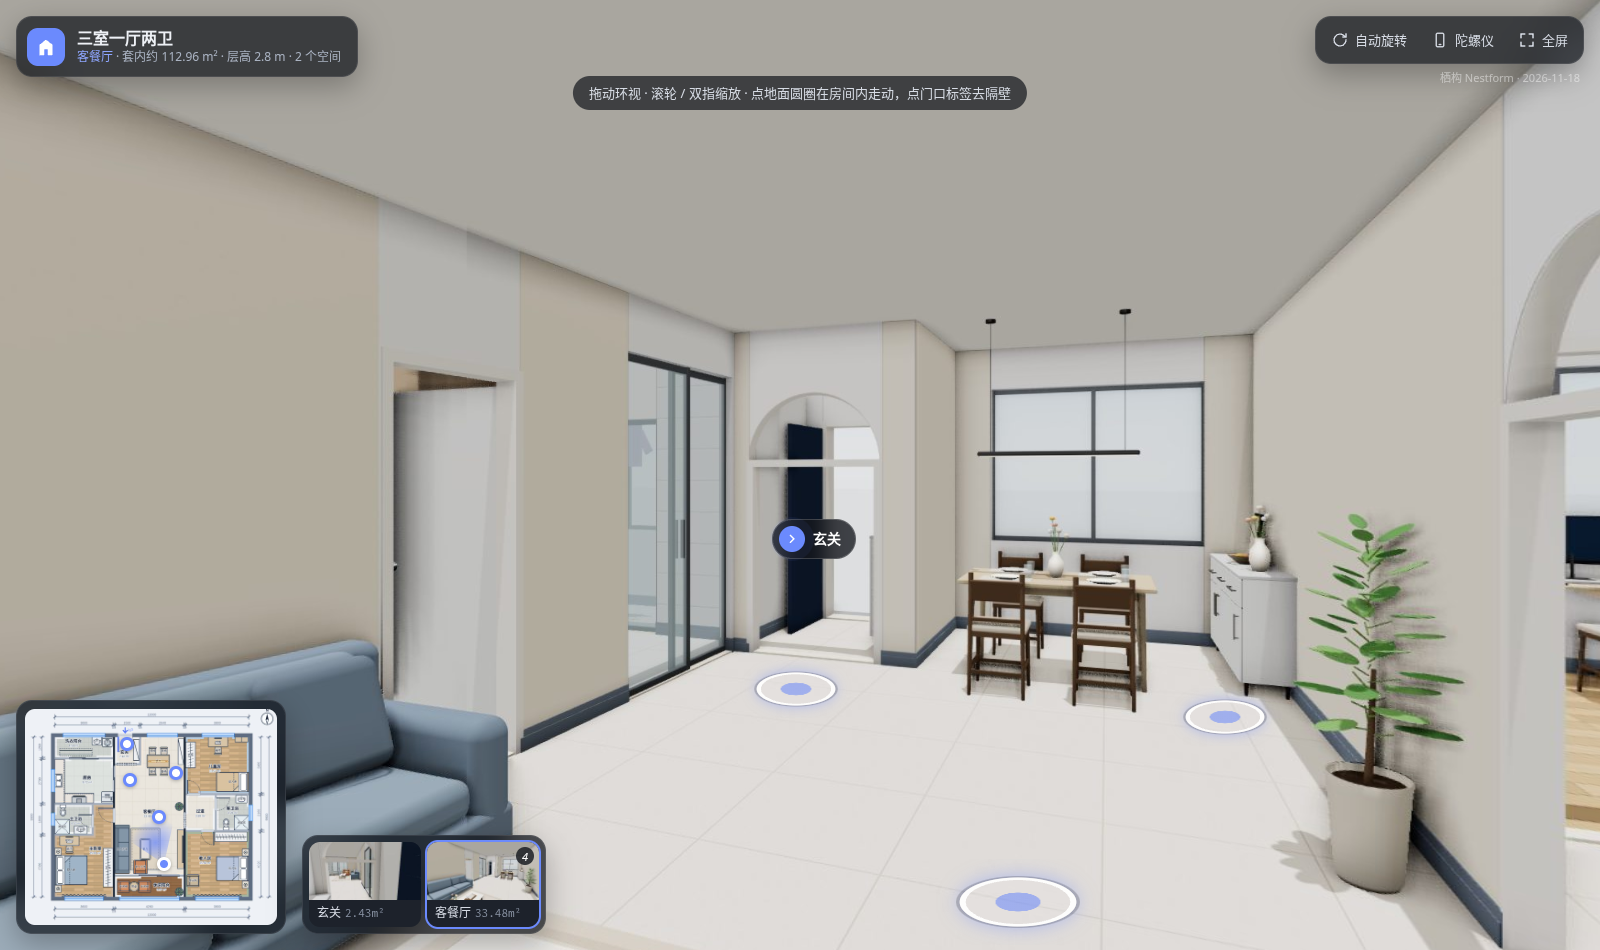
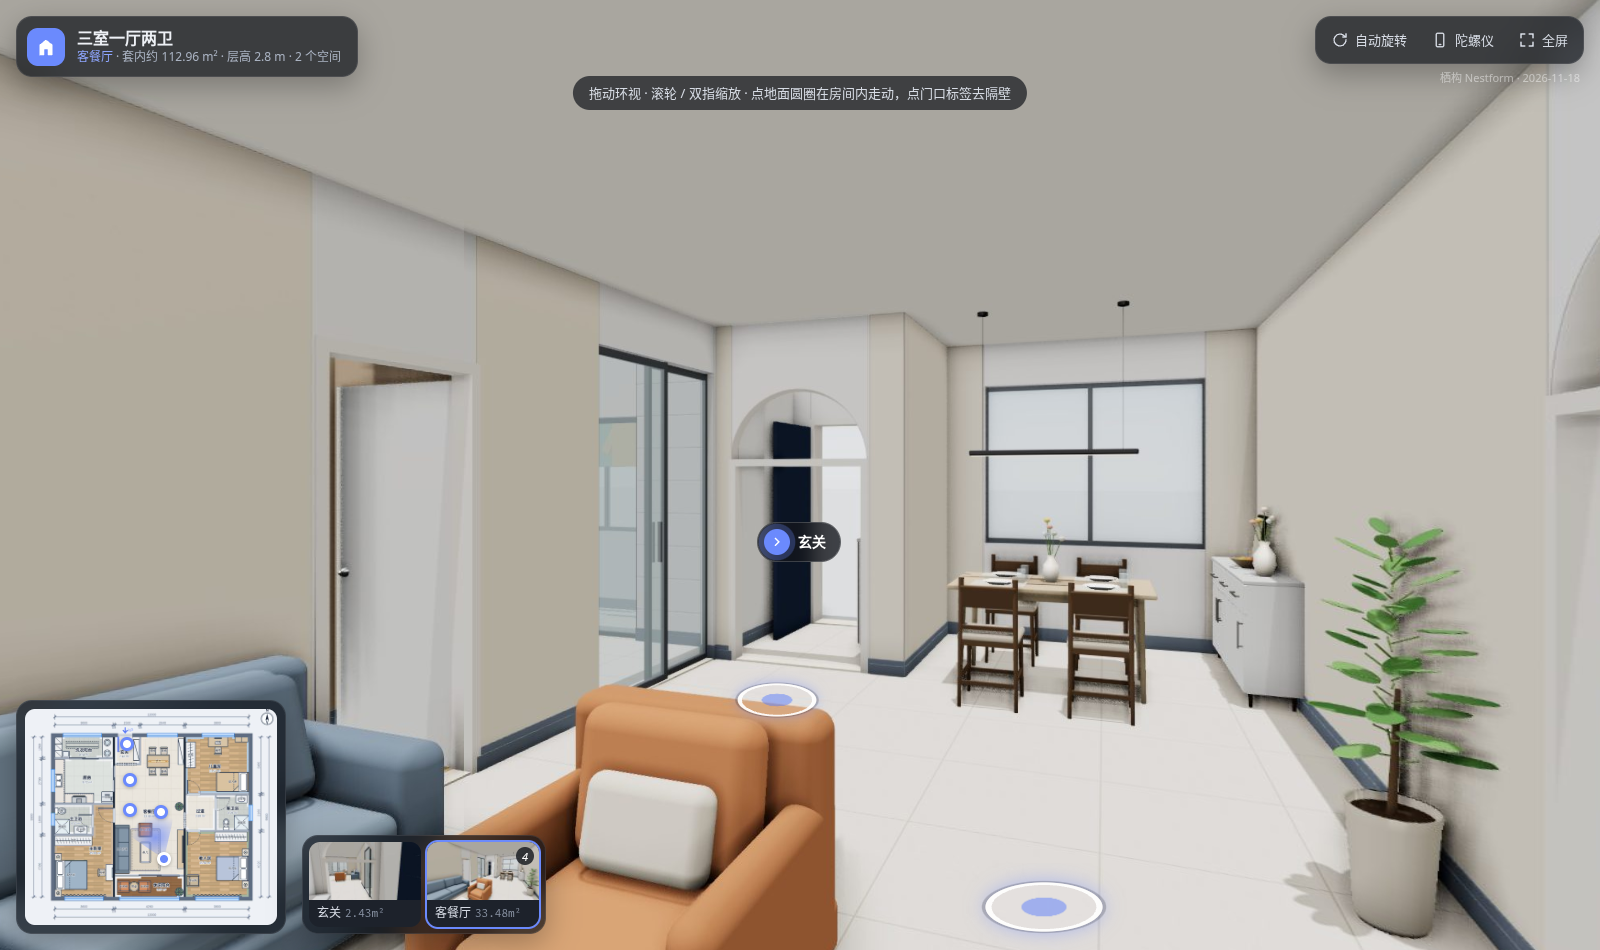
默认户型细节修正
- 老人房门挪到西头，门扇开向西墙，不再贴着衣柜
- 两个卫生间的淋浴房转到两面靠墙，玻璃围合完整
- 主卫马桶改靠西墙，不再正对淋浴房
- 主卧衣柜改靠北墙、梳妆台改靠东墙，椅子后退不碰床
- 客厅单人沙发挪到茶几北侧，不挡阳台推拉门
- 洗衣阳台：洗烘嵌入柜 + 顶天储物柜 + 拖把池，窗前留空

diff --git a/src/data.js b/src/data.js
@@ -18,7 +18,7 @@ function run(horiz, c0, c1, a0, a1, type, holes = []){
 }
 // 洞口（沿墙方向的区间）
 const H = {
-  top:[[500, 3100], [3900, 4800], [5700, 7600], [9100, 11100]],     // 洗衣阳台北窗 / 入户门 / 餐区北窗 / 儿童房北窗
+  top:[[500, 2900], [3900, 4800], [5700, 7600], [9100, 11100]],     // 洗衣阳台北窗 / 入户门 / 餐区北窗 / 儿童房北窗
   bottom:[[600, 3000], [4000, 7700], [8700, 11400]],                // 主卧 / 阳台 / 老人房 南窗
   left:[[2000, 3400], [4700, 5500]],                                // 厨房 / 主卫 西窗
   right:[[4200, 5200]],                                             // 客卫东窗
@@ -44,7 +44,7 @@ export const WALLS = [
   ...run(true, 8520, 8640, 3720, 7980, 'n', [[5200, 7700]]),         // 阳台推拉门
   // 东列：儿童房 / 过道 + 客卫 / 老人房
   ...run(true, 3480, 3600, 8100, 12000, 'n', [[8200, 9000]]),        // 儿童房门
-  ...run(true, 5760, 5880, 8100, 12000, 'n', [[9050, 9850]]),        // 老人房门（与儿童房门错开）
+  ...run(true, 5760, 5880, 8100, 12000, 'n', [[8200, 9000]]),        // 老人房门（门扇开向西墙）
   ...run(false, 9900, 10020, 3600, 5760, 'n', [[3750, 4550]]),       // 客卫门（偏北，从客餐厅看不到）
 ];
 // 窗：[x0,y0,x1,y1, 窗台高 m]
@@ -61,7 +61,7 @@ export const DOORS = [
   {name:'主卧门', rect:[3600, 4400, 3720, 5300], h:[3600, 4400], c:[0, 1], o:[-1, 0], len:900},
   {name:'主卫门', rect:[2280, 4800, 2400, 5600], h:[2280, 4800], c:[0, 1], o:[-1, 0], len:800},
   {name:'儿童房门', rect:[8200, 3480, 9000, 3600], h:[8200, 3480], c:[1, 0], o:[0, -1], len:800},
-  {name:'老人房门', rect:[9050, 5760, 9850, 5880], h:[9850, 5880], c:[-1, 0], o:[0, 1], len:800},
+  {name:'老人房门', rect:[8200, 5760, 9000, 5880], h:[8200, 5880], c:[1, 0], o:[0, 1], len:800},
   {name:'客卫门', rect:[9900, 3750, 10020, 4550], h:[10020, 3750], c:[0, 1], o:[1, 0], len:800},
   {name:'拱形门洞', rect:[3850, 1620, 5050, 1740], h:[3850, 1740], c:[1, 0], o:[0, 1], len:1200, style:'arch'},
   {name:'拱形门洞', rect:[7980, 4650, 8100, 5650], h:[8100, 4650], c:[0, 1], o:[1, 0], len:1000, style:'arch'},
@@ -74,7 +74,7 @@ export const SLIDES = [
 ];
 export const R = (x0,y0,x1,y1) => [[x0,y0],[x1,y0],[x1,y1],[x0,y1]];
 export const ROOMS = [
-  {id:'laundry', name:'洗衣阳台', poly:R(0, 0, 3600, 1260), mat:'antislip', at:[1150, 330]},
+  {id:'laundry', name:'洗衣阳台', poly:R(0, 0, 3600, 1260), mat:'antislip', at:[1800, 880]},
   {id:'kitchen', name:'厨房', poly:R(0, 1380, 3600, 4080), mat:'tile600', at:[2000, 2600]},
   {id:'mbath', name:'主卫浴', poly:R(0, 4200, 2280, 6000), mat:'antislip', at:[1300, 5150]},
   {id:'master', name:'主卧室', poly:[[2400, 4200], [3600, 4200], [3600, 9900], [0, 9900], [0, 6120], [2400, 6120]], mat:'wood', wall:'paint_latte', at:[2500, 7000]},
@@ -246,17 +246,19 @@ export const uid = () => 'f' + Date.now().toString(36) + (_n++);
 export const F = (type,name,cx,cy,w,d,rot=0,color) => ({id:uid(),type,name,cx,cy,w,d,rot,color:color||typeColor(type)});
 
 export function defaultFurniture(){ return [
-  // 洗衣阳台：洗衣机 + 洗衣池靠北窗，头顶晾衣架
-  F('washer','洗衣机',3250,300,600,600), F('vanity','洗衣池',2600,250,600,500), F('dryrack','升降晾衣架',1300,950,2000,450),
+  // 洗衣阳台：东头顶天洗衣柜（洗衣机 + 烘干机并排嵌入），西头顶天储物柜，窗前留空、头顶晾衣架，角落拖把池
+  {...F('laundrycab','洗烘嵌入柜',3275,630,1250,650,90,'#eef0f2'), cab:{pk:'cabinet_balcony', h:0, slots:2, stack:false, sink:false}},
+  {...F('customcab','阳台储物柜',225,630,1250,450,270,'#eef0f2'), cab:{pk:'cabinet_balcony', h:0, mount:0, cols:3, rows:1, door:'flat'}},
+  F('mopsink','拖把池',675,1060,450,400,180), F('dryrack','升降晾衣架',1700,480,2000,450),
   // 厨房：L 形台面（西窗下水槽、南墙灶台），冰箱在进门手边
   F('counter','橱柜台面',300,2730,2700,600,270), F('counter','橱柜台面',1500,3780,1800,600,180),
   F('ksink','水槽',225,2700,800,450,270), F('stove','燃气灶',1500,3855,750,450,180), F('hood','抽油烟机',1500,3830,900,500,180),
   F('fridge','冰箱',3250,3730,700,700,180),
   // 主卫
-  F('toilet','马桶',500,4550,400,700), F('shower','淋浴房',450,5550,900,900), F('vanity','浴室柜',1600,5750,800,500,180),
-  // 主卧：床头靠西墙，衣柜靠东墙，北墙梳妆台
-  F('bed','双人床',1000,8250,1800,2000,270,'#9fb4c7'), F('nightstand','床头柜',200,7100,450,400,270), F('nightstand','床头柜',200,9400,450,400,270),
-  F('wardrobe','衣柜',3300,8100,2400,600,90), F('desk','梳妆台',900,6420,1200,600), F('chair','椅子',900,6960,450,480,180),
+  F('toilet','马桶',350,4580,400,700,270), F('shower','淋浴房',450,5550,900,900,270), F('vanity','浴室柜',1600,5750,800,500,180),
+  // 主卧：床头靠西墙，衣柜靠北墙，梳妆台靠东墙（椅子后面离床尾还有 670）
+  F('bed','双人床',1000,8550,1800,2000,270,'#9fb4c7'), F('nightstand','床头柜',200,7425,450,400,270), F('nightstand','床头柜',200,9675,450,400,270),
+  F('wardrobe','衣柜',1150,6420,2300,600), F('dresser','梳妆台',3375,8400,1000,450,90), F('chair','椅子',2910,8400,450,480,270),
   F('drapes','布帘 + 纱帘',1800,9810,2700,180,180),
   // 玄关
   F('shoecab','鞋柜',5045,800,1300,350,90),
@@ -265,8 +267,8 @@ export function defaultFurniture(){ return [
   F('chair','餐椅',6050,860,450,480), F('chair','餐椅',6750,860,450,480),
   F('chair','餐椅',6050,2140,450,480,180), F('chair','餐椅',6750,2140,450,480,180),
   // 客餐厅：客厅区（沙发靠西墙，电视柜靠东墙）
-  F('rug','地毯',5600,6950,2600,1800,90), F('sofa','三人沙发',4170,6950,3000,900,270), F('tvstand','电视柜',7780,6950,2400,400,90),
-  F('coffeetable','茶几',5600,6950,1300,650,90), F('armchair','单人沙发',5300,8050,850,850,180),
+  F('rug','地毯',5600,7000,2600,1800,90), F('sofa','三人沙发',4170,6950,3000,900,270), F('tvstand','电视柜',7780,6950,2400,400,90),
+  F('coffeetable','茶几',5600,7150,1300,650,90), F('armchair','单人沙发',5600,5750,850,850),
   F('plant','绿植',7700,4300,500,500),
   // 休闲阳台
   F('roundtable','茶桌',4900,9270,600,600), F('armchair','休闲椅',4250,9270,750,750,270,'#d08c60'),
@@ -275,7 +277,7 @@ export function defaultFurniture(){ return [
   F('bed','单人床',11000,2780,1200,2000,90,'#d9c2a0'), F('desk','书桌',10100,300,1200,600), F('chair','椅子',10100,840,450,480,180),
   F('wardrobe','衣柜',8400,1100,1600,600,270), F('bookshelf','书架',11550,150,800,300),
   // 客卫
-  F('vanity','浴室柜',11550,3840,700,480), F('toilet','马桶',10600,5410,400,700,180), F('shower','淋浴房',11550,5310,900,900),
+  F('vanity','浴室柜',11550,3840,700,480), F('toilet','马桶',10600,5410,400,700,180), F('shower','淋浴房',11550,5310,900,900,180),
   // 老人房：出门两步就是客卫
   F('bed','双人床',11000,8150,1500,2000,90,'#b8c4d9'), F('nightstand','床头柜',11800,7150,450,400,90), F('nightstand','床头柜',11800,9150,450,400,90),
   F('wardrobe','衣柜',10900,6180,2000,600), F('armchair','休闲椅',8550,8900,750,750,270,'#c9b79c'),
